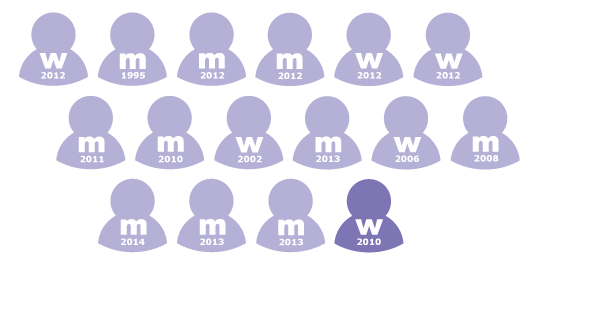
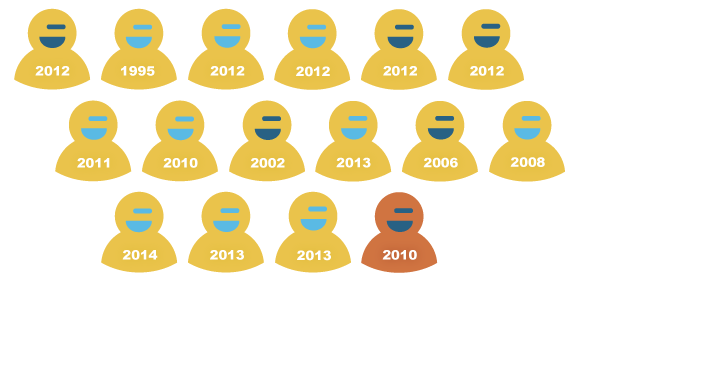
New images, Styles, yahoo and leadershippy

diff --git a/tech/yahoo.html b/tech/yahoo.html
@@ -525,7 +525,7 @@ document.write(yearspast+tail+" "+countunit)
 #endpage_blahdeda {
 	position:absolute;
 	width:100%;
-	height:250px;
+	height:160px;
 	top:2000px;
 	background-color:#eee;
 	z-index:1;
@@ -533,6 +533,51 @@ document.write(yearspast+tail+" "+countunit)
 
 .footer-filler {
   margin-bottom: 50px;
+}
+
+#slideout {
+    position:absolute;
+    top: 2000px;
+	height:50px;
+    left: 0;
+    width: 100%;
+    padding: 10px 0;
+    text-align: left;
+    background: #BBB;
+    -webkit-transition-duration: 0.3s;
+    -moz-transition-duration: 0.3s;
+    transition-duration: 0.3s;
+    -o-transition-duration: 0.3s;
+    -webkit-border-radius: 0 5px 5px 0;
+    -moz-border-radius: 0 5px 5px 0;
+    border-radius: 0 5px 5px 0;
+}
+#slideout_inner {
+    position:absolute;
+    top: 2050px;
+    background: #CCC;
+    width: 100%;
+    padding: 50px;
+    height: 300px;
+    -webkit-transition-duration: 0.3s;
+    -moz-transition-duration: 0.3s;
+    transition-duration: 0.3s;
+    -o-transition-duration: 0.3s;
+    text-align: left;
+    -webkit-border-radius: 0 0 5px 0;
+    -moz-border-radius: 0 0 5px 0;
+    border-radius: 0 0 5px 0;
+}
+#slideout_inner textarea {
+    width: 190px;
+    height: 100px;
+    margin-bottom: 6px;
+}
+#slideout:hover {
+    bottom: 1700px;
+}
+#slideout:hover #slideout_inner {
+    left: 0;
 }
 
 </style>
@@ -875,11 +920,18 @@ document.write(yearspast+tail+" "+countunit)
     </div>
   </div>
 
-<!---------------------- Page End Page End Page End Page End ---------------------------->
+<!---------------------- Nacho Momma's NonProfit ---------------------------->
 
 <div id="endpage_blahdeda">
-   <p class="footy-blather-header">EqualTogether is a proud project of HumanAxis, a 501(c)3 non-profit Delaware Corporation.</p><p class="footy-blather">Yep, you read that correctly: a non-profit. A competitively priced B2B SAAS platform serving curated content and workforce analytics reporting, and developed by industry leaders who aren't in it to become billionaires. A business that's in the same game as all the other Delaware C-Corps, but without the equity, without the VC shackles, and that's not out to make anyone a billionaire. How in the hell does that work? Simple: We're a non-profit that refuses to beg, is out to solve for workplace inequality issues that have thus far eluded the savviest of proble-solvers, and—oh hey—this product happens to be at the core of measuring how solution prospects perform, it didn't yet exist, so why not seize the opportunity to "get rich" delivering a badass product the market is ready for... and instead of begging like pathetic hippies 4x a year, we just divert revenues that exceed operating expenses, into mission-centered projects of HumanAxis? It's a new day: Welcome!</p> 
+   <p class="footy-blather-header">EqualTogether is a proud project of HumanAxis, a 501(c)3 non-profit Delaware Corporation.</p>
+   <p class="footy-blather">Yep, you read that correctly: a non-profit. A competitively priced B2B SAAS platform serving curated content and workforce analytics, developed by industry vets who aren't in it to become billionaires—but are in this to get results. A business in the same game as all the other Delaware C-Corps, but without the VCs, without valuation goals, and with mission-centric social re-investment in place of valuation gains. That mission: aggressive steps to rectify workforce inequality. <span class="footy-blather-continue">Continue Reading</span>
+</p> 
 </div>
+
+<!---------------------- Footer Footer Footer Footer ---------------------------->
+
+
+
   <div class="footer-filler">
   </div>
 

diff --git a/basicstyles.css b/basicstyles.css
@@ -182,8 +182,9 @@ a.navbar-brand {
     font-size:12px;
 	line-height:4px;
     color: #575558;
-	vertical-align:center;
+	padding:5px;
     text-align: left;
+	margin-left:-75px;
 }
 
 .footy-blather-header {
@@ -192,9 +193,8 @@ a.navbar-brand {
     font-size:12px;
     color: #777;
     text-align: left;
-	margin-top:20px;
+	margin-top:13px;
 	margin-left:50px;
-	padding-bottom:2px;
 }
 
 
@@ -202,11 +202,17 @@ a.navbar-brand {
 	font-family: Open-Sans, sans-serif;
 	font-weight:300;
     font-size:12px;
-	line-height:19px;
+	line-height:18px;
     color: #888;
     text-align: left;
 	margin-left:50px;
-	margin-right:250px;
+	margin-right:220px;
+}
+
+.footy-blather-continue {
+	font-family: Open-Sans, sans-serif;
+	font-weight:700;
+    color: #777;
 }
 
 

diff --git a/tech/yahoo-leadershippy.html b/tech/yahoo-leadershippy.html
@@ -493,7 +493,7 @@ document.write(yearspast+tail+" "+countunit)
 	position:absolute;
 	display: block;
 	width:100%;
-	top:2000px;
+	top:1900px;
 }
 
 	
